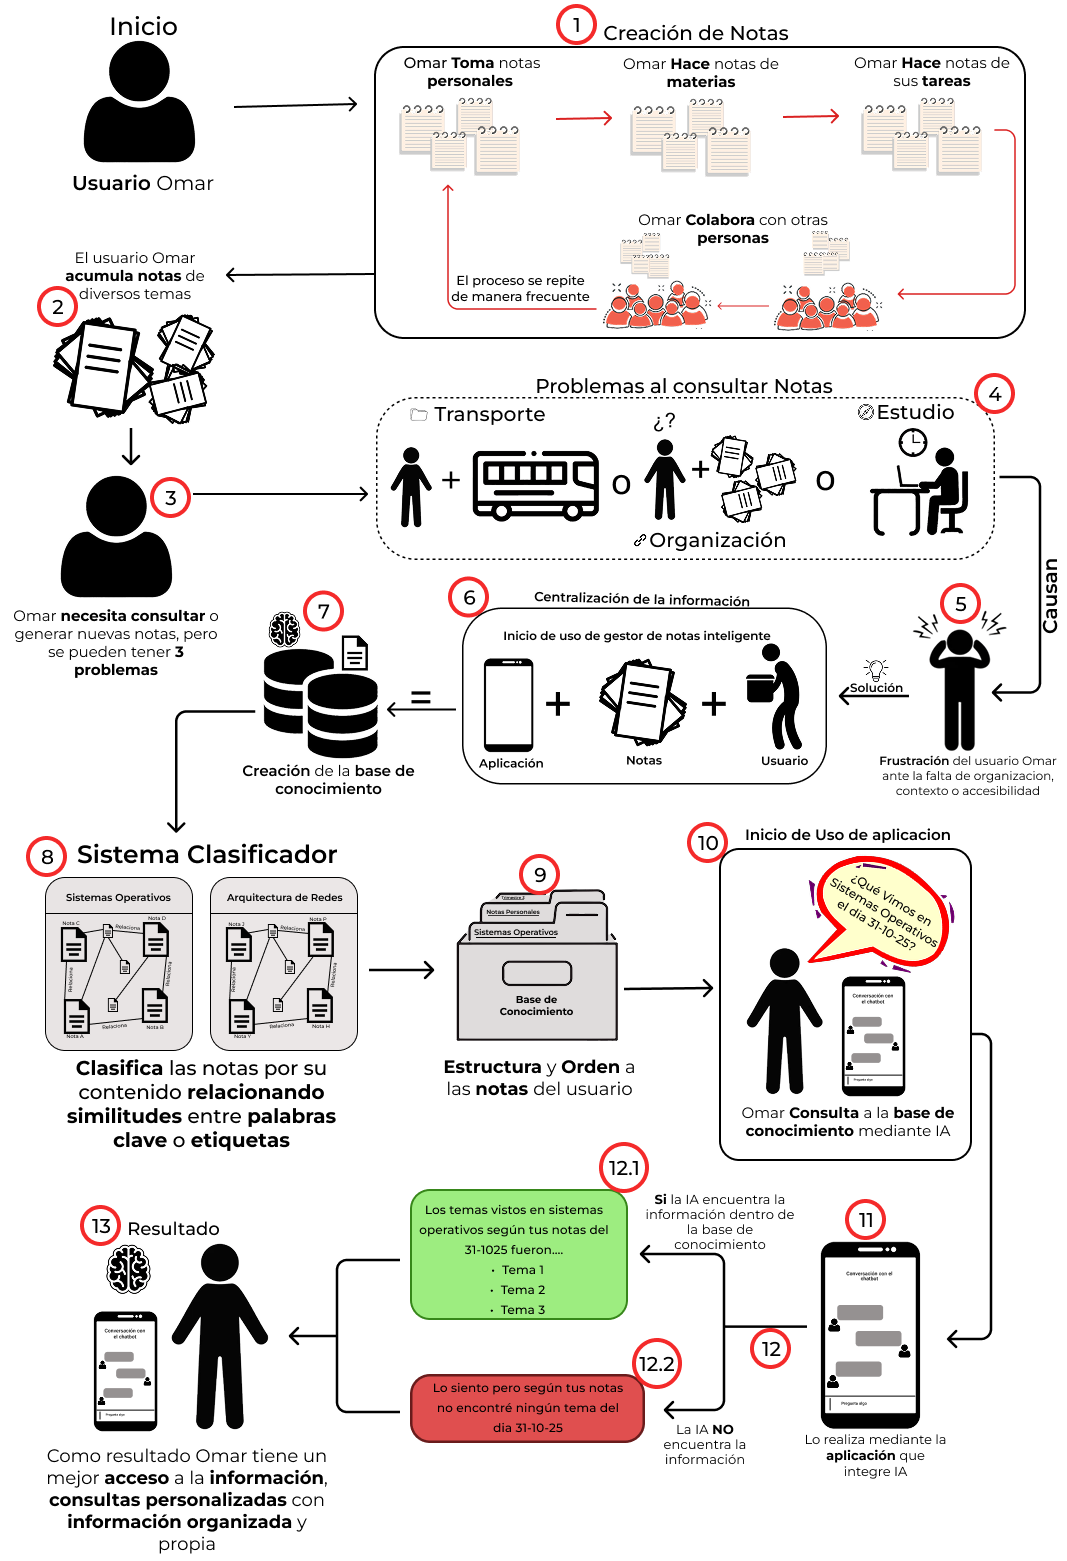
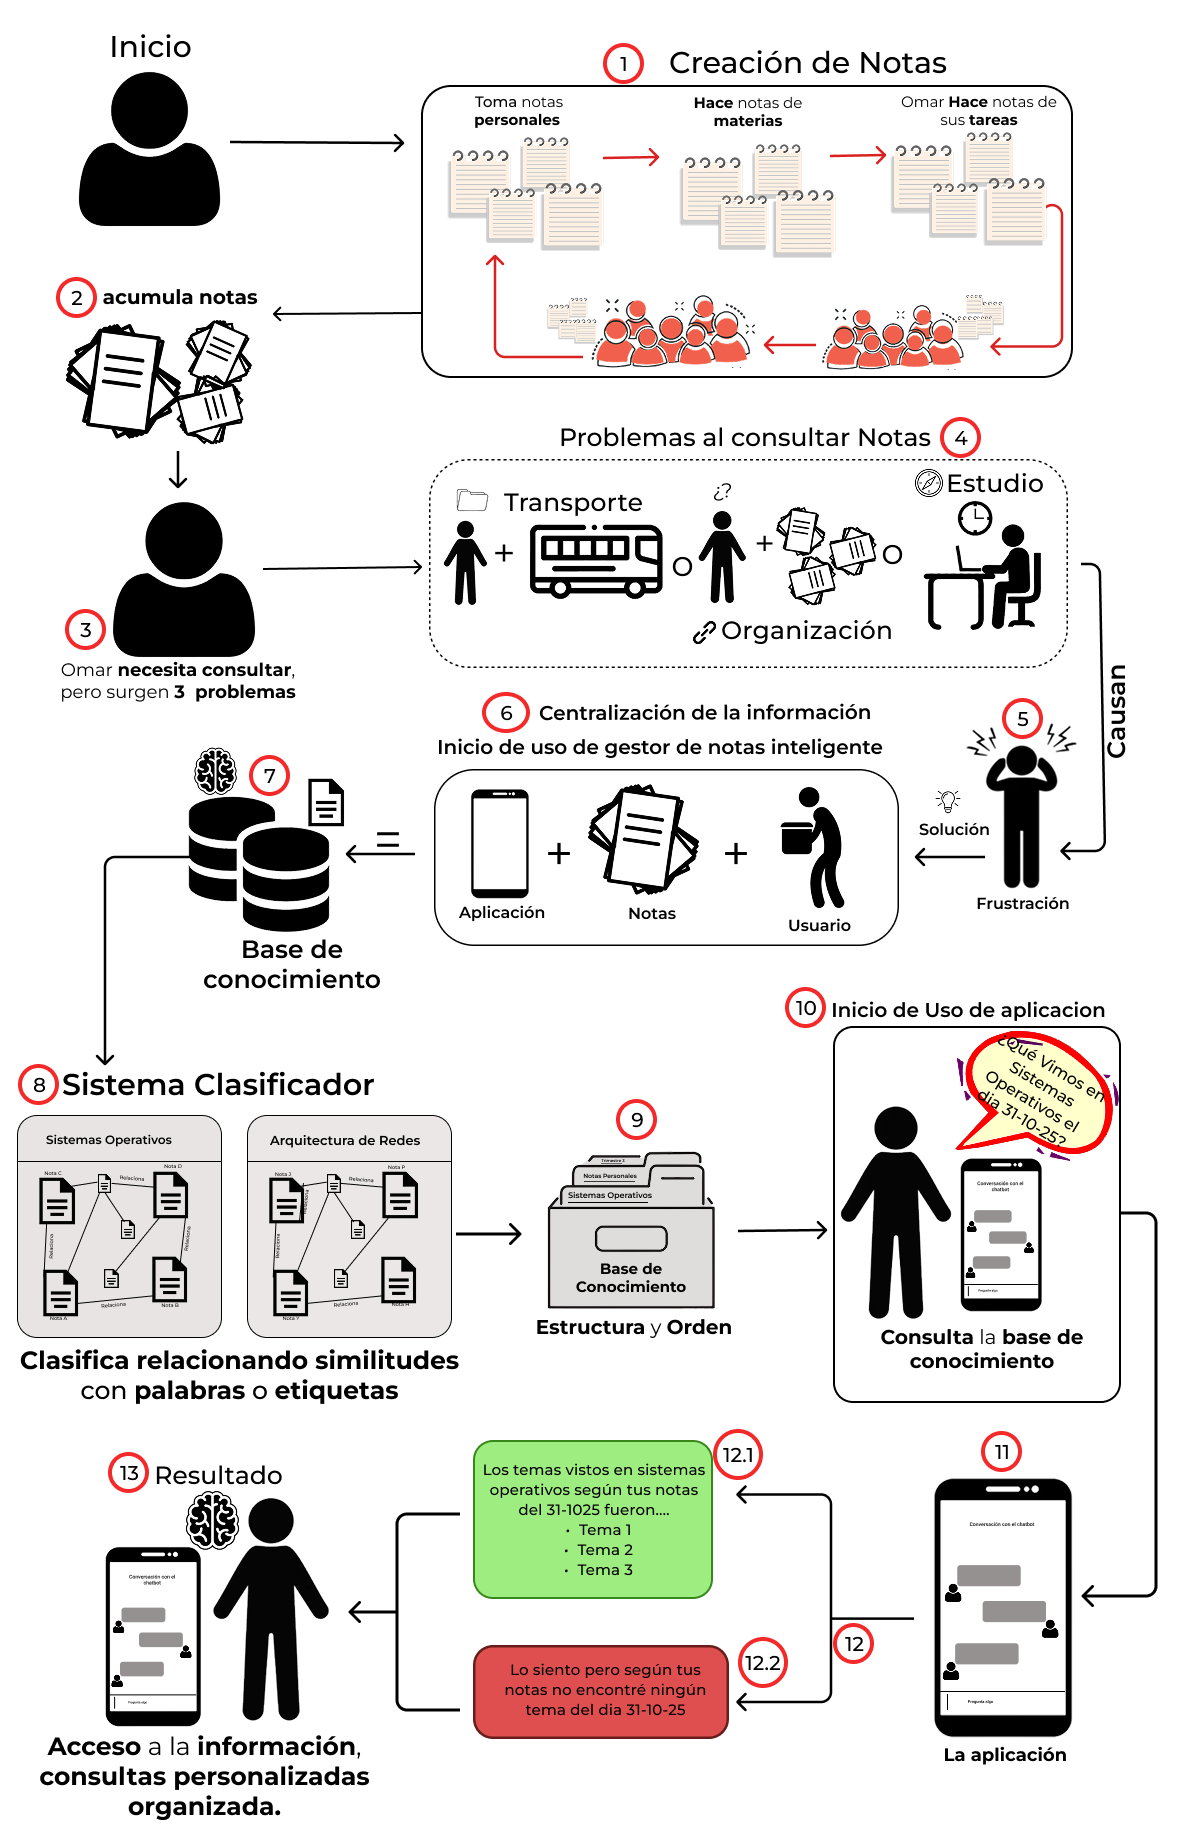
Correcciones Finales

Changed region(s): [[0.0, 0.0, 0.9897, 1.0], [0.0619, 0.0, 0.1856, 0.123]]

diff --git a/main.tex b/main.tex
@@ -24,52 +24,87 @@
 \begin{document}
 
 \begin{frame}[t]
-
-    \begin{block}{\Large Introducción}
-            \vspace{1cm}
-            
-            Los estudiantes utilizan desde papel hasta herramientas digitales como Notion, Obsidian u OneNote para gestionar información, pero estas plataformas dependen de internet y no ofrecen funciones avanzadas como consultas personalizadas o contextos privados. Además, al usar servicios externos, los usuarios pierden control sobre la privacidad y seguridad de sus datos.\\
+    \vspace{.5cm}
+    \begin{block}{\Large 1. Introducción}
+    Las herramientas digitales actuales para tomar notas no garantizan privacidad, autonomía ni acceso sin conexión. Esto es relevante porque los estudiantes dependen cada vez más de estos sistemas para gestionar grandes volúmenes de información. Sin embargo, las plataformas existentes requieren internet, no permiten consultas personalizadas y exponen los datos a riesgos si el servicio cambia o desaparece. Por ello se necesita una solución local, privada y capaz de realizar consultas inteligentes.
             \end{block}
+
+% \vspace{0.5cm}
+\begin{tcolorbox}[colframe=RoyalBlue,colback=RoyalBlue,height=0.25cm,left=0pt,right=0pt,top=0pt,bottom=0pt,boxsep=0pt]
+\end{tcolorbox}
 
 \begin{minipage}[t]{\textwidth}
 
-    \begin{minipage}[t]{0.47\textwidth}
+\begin{minipage}[t]{0.47\textwidth}
 
-        \begin{block}{\Large Metodología}
-\vspace{.5cm}
-El sistema utiliza técnicas de procesamiento de lenguaje natural para:
+\begin{block}{\Large 2. Metodología}
 
+El proyecto se desarrolla con metodologías ágiles (AUP y Scrum), permitiendo iteraciones y retroalimentación continua.
+Las actividades principales incluyen:
 \begin{itemize}[leftmargin=*]
-    \item Analizar similitudes semánticas entre palabras clave.
-    \item Detectar temas relevantes en cada nota.
-    \item Asignar etiquetas o categorías automáticas.
+    \item Definición de requisitos y diseño de arquitectura.
+    \item Prototipado y pruebas
+    \item Construcción incremental en sprints
 \end{itemize}
 
-Las notas terminan agrupadas dentro de una base de conocimiento estructurada.
+Para comprender necesidades reales de estudiantes, se aplican encuestas, entrevistas y análisis documental
+
+\end{block}
+
+\vspace{.5cm}
+   \begin{block}{\Large 3. Justificación}
+
+   Las herramientas actuales dependen de la nube, lo que limita la privacidad, el acceso sin internet y el control de los estudiantes sobre sus notas. Por ello, se requiere una alternativa local y segura que permita gestionar y consultar información académica sin depender de servicios externos
+\end{block}
+
+\vspace{1.5cm}
+
+\begin{block}{\Large 4. Propuesta}
+    La aplicación centraliza todas las notas en una base de conocimiento local y permite consultarlas mediante un chat con IA sin conexión a internet. Sus funciones principales incluyen:
+    
+    \begin{itemize}[leftmargin=*]
+
+    \item Acceso offline
+
+    \item Clasificación automática
+
+    \item Consultas en lenguaje natural
+
+    \item Colaboración distribuida
+
+    \item Privacidad y control total del usuario
+    \end{itemize}
+
+Esta solución aborda problemas reales como desorden, falta de contexto y difícil acceso a la información.
+
+% La IA analiza la base de conocimiento y devuelve:
+
+% \begin{itemize}[leftmargin=*]
+%     \item \textbf{Respuesta positiva}: lista de temas relacionados.
+%     \item \textbf{Respuesta negativa}: indica que no se encontraron notas para esa fecha o categoría.
+% \end{itemize}
+% La aplicación resuelve problemas reales de organización y consulta de información mediante:
+% \begin{itemize}[leftmargin=*]
+%     \item Centralización de notas.
+%     \item Clasificación automática con IA.\@
+%     \item Consultas naturales y personalizadas.
+% \end{itemize}
+
 \end{block}
         
 
-\end{minipage}\hspace{0.02\textwidth}
+\end{minipage}
+\hspace{0.02\textwidth}%
+{\textcolor{RoyalBlue}{\vrule width 0.25cm height 1.5cm}}%
+\hspace{0.02\textwidth}%
 % ------------------------------------------------------------
-\begin{minipage}[t]{0.47\textwidth}
-\begin{block}{\Large Justificación}
-    \vspace{1cm}
+\begin{minipage}[t]{0.48\textwidth}
+    \begin{block}{\large 5. Funcionamiento general}
+    \begin{center}
+    \includegraphics[width=.91\linewidth]{images/Contexto_2.png}
+    \end{center}
+    \end{block}
 
-    %La aplicación permitirá crear, organizar y consultar una base de conocimiento personalizada con total privacidad, incorporando tecnologías como bases de datos vectoriales para búsquedas semánticas, modelos de lenguaje locales y sistemas distribuidos, además de ofrecer funciones offline para mejorar la accesibilidad.
-
-    El \emph{Gestor inteligente para notas académicas} responde a la necesidad de estructurar y consultar información de forma segura, personalizada y eficiente, siendo útil para estudiantes, docentes y profesionales.
-    
-    \vspace{.5cm}
-    \begin{itemize}[leftmargin=*]
-        \item Privacidad y control de datos.
-        \item Accesibilidad offline.
-        \item Colaboración descentralizada.
-        \item Procesamiento de lenguaje natural.
-        \item Mejor experiencia de usuario.
-        \item Disponibilidad multiplataforma.   
-    \end{itemize}
-
-\end{block}
 \end{minipage}
 
 \end{minipage}
@@ -79,38 +114,46 @@ Las notas terminan agrupadas dentro de una base de conocimiento estructurada.
 % ============================================================
 
 \begin{minipage}[t][0.3\textheight][t]{\textwidth}
-    \vspace{1cm}
+% % ------------------------------------------------------------
+% \begin{minipage}[t]{0.48\textwidth}
 
+% \end{minipage}\hfill
+\begin{minipage}[t]{0.48\textwidth}
 
-\begin{block}{\Large Estado del Arte}
-    \vspace{1cm}
-Las principales caracteristicas que diferencian el \emph{Gestor inteligente para notas académicas} con respecto a las soluciones encontradas en el mercado.
-\vspace{1cm}
+\end{minipage}
+
+% \vspace{0.5cm}
+\noindent\begin{tcolorbox}[colframe=RoyalBlue,colback=RoyalBlue,height=0.3cm,left=0pt,right=0pt,top=0pt,bottom=0pt,boxsep=0pt]
+\end{tcolorbox}
+% \vspace{0.5cm}
+
+\begin{minipage}[t]{0.48\textwidth}
+\begin{block}{\Large 6. Estado del Arte}
+
+Las caracteristicas que diferencian al \emph{Gestor inteligente para notas académicas} con soluciones encontradas en el mercado son:
 %tabla comparativa
 \begin{table}[H]
 \centering
-\small
-\setlength{\tabcolsep}{50pt}
-\renewcommand{\arraystretch}{1.20}
+\footnotesize
+\setlength{\tabcolsep}{25pt} % Espaciado entre columnas
+\renewcommand{\arraystretch}{1.40} % Altura de filas
 \begin{tabular}{|l|c|c|c|c|}
 \toprule
 \textbf{Características} & \textbf{Notion} & \textbf{Obsidian} & \textbf{NotebookLM} & \textbf{Propuesta} \\
 \midrule
-Enfoque principal & Productividad & Conocimiento personal & Resúmenes con IA & Gestión académica con IA local \\
+Almacenamiento & Nube & Parcial & No & \textbf{Sí (100\%)} \\
 \hline
-Privacidad & Baja (nube) & Media (local + sync) & Baja (Google) & Alta (100\% local) \\
+Privacidad & No & Parcial & No & \textbf{Sí} \\
 \hline
-Acceso sin conexión & Limitado & Parcial & No & Total \\
+Acceso sin conexión & Limitado & Sí & No & \textbf{Sí} \\
 \hline
-IA integrada & Sí (nube) & No nativa & Sí (nube) & Sí (local) \\
+IA integrada & Nube & Plugins & Nube & \textbf{Sí (local)} \\
 \hline
-Colaboración & Alta & Limitada & No & Distribuida \\
+Consultas  & Sí & No nativo & Sí & \textbf{Sí (local)} \\
 \hline
-Facilidad de uso & Intuitiva & Técnica & Simple & Ligera e intuitiva \\
+Colaboración & Sí (centralizada) & Limitada & No & \textbf{Distribuida} \\
 \hline
-Enfoque educativo & General & Investigación personal & Lectura/síntesis & Estudiantes y docentes \\
-\hline
-Soporte multiplataforma & Sí & Sí & Sí & Sí \\
+Enfoque educativo & No & No & No & \textbf{Sí} \\
 \bottomrule
 \end{tabular}
 \end{table}
@@ -119,43 +162,30 @@ Soporte multiplataforma & Sí & Sí & Sí & Sí \\
 
 \end{block}
 
-% ------------------------------------------------------------
-\begin{minipage}[t]{0.48\textwidth}
+\end{minipage}\hspace{0.04\textwidth}%
+{\textcolor{RoyalBlue}{\vrule width 0.25cm height 0cm}}%
+\hspace{0.04\textwidth}%
+\begin{minipage}[t]{0.45\textwidth}
+\begin{block}{\Large 7. Resultados Esperados}
 
+    \begin{itemize}[leftmargin=*]
 
-% ------------------------------------------------------------
-\begin{block}{\Large Propuesta}
-\vspace{.5cm}
+    \item El sistema permitirá gestionar y consultar notas de forma local, segura y sin conexión a internet.
+
+    \item Mejorará la organización académica mediante clasificación automática y consultas en lenguaje natural.
+
+    \item La integración de IA local aumentará la eficiencia sin comprometer la privacidad.
+
+    \item Los estudiantes tendrán mayor control, autonomía y protección de sus datos.
+
+    \item La solución superará las limitaciones de las herramientas actuales basadas en la nube.
+    \end{itemize}
     
-Por ello, se plantea una aplicación inteligente que funcione offline, permita crear una base de conocimiento personalizada y asegure la protección de la información mediante tecnologías como procesamiento local del lenguaje, interfaces especializadas y sistemas distribuidos. El usuario puede realizar consultas como:
-
-\begin{quote}
-\emph{\textquestiondown~Qué vimos en Sistemas Operativos el 31--10--25?}
-\end{quote}
-
-La IA analiza la base de conocimiento y devuelve:
-
-\begin{itemize}[leftmargin=*]
-    \item \textbf{Respuesta positiva}: lista de temas relacionados.
-    \item \textbf{Respuesta negativa}: indica que no se encontraron notas para esa fecha o categoría.
-\end{itemize}
-La aplicación resuelve problemas reales de organización y consulta de información mediante:
-\begin{itemize}[leftmargin=*]
-    \item Centralización de notas.
-    \item Clasificación automática con IA.\@
-    \item Consultas naturales y personalizadas.
-\end{itemize}
-
 \end{block}
-\end{minipage}\hfill
-\begin{minipage}[t]{0.48\textwidth}
 
-\begin{block}{\large Contexto de uso}
-    \begin{center}
-    \includegraphics[width=.68\linewidth]{images/Contexto_2.png}
-    \end{center}
-    \end{block}
+
 \end{minipage}
+
 
 \end{minipage}
 
